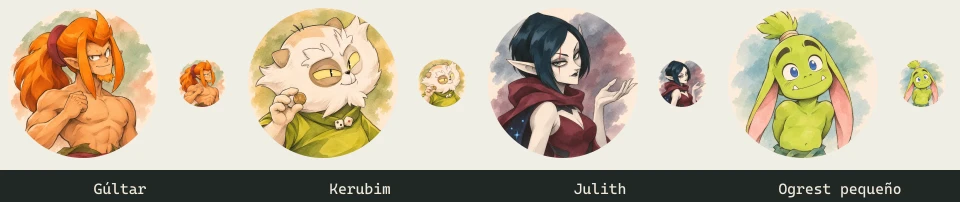
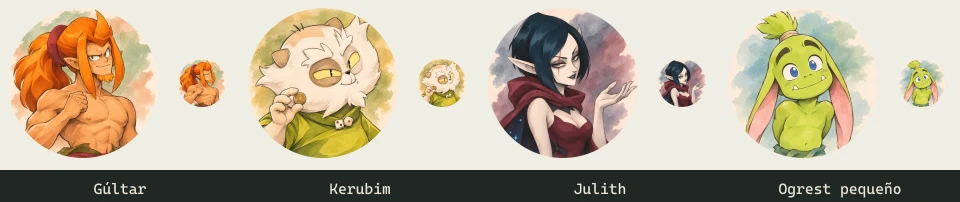
style(brand): refine Julith's exclusive portrait on request
Give adult Julith a more alluring expression, subtle parted-lip smile and
flattering opaque burgundy neckline while retaining her recognizable
face, scar, bob, star-lined cloak, raised-palm gesture, normal avatar
framing and established ink-and-watercolor treatment.

Select this single explicitly requested edit and refresh its WebP and
portrait/circle preview sheets. Preserve the first native PNG, archived
WebP, exact original prompt and full record in the generation history.
Record the edit prompt, input hashes and native/circular/hand review;
the previously ambiguous fourth long finger remains a review observation.

Keep the other seven exclusive images/records, all 334 normal artworks
and the original collection manifests unchanged. This visual refinement
belongs to the ongoing 0.4.27 collection and does not change unlocks or
profile behavior.

Validation: native/public/reference hashes, 512px opaque export, enlarged
artwork and hand inspection, 150/48px circular crops, exact preservation
of the previous artwork, production build and page-weight budgets.

Changed region(s): [[0.5, 0.1188, 0.75, 0.7723]]

diff --git a/docs/brand/emblematic-rewards/README.md b/docs/brand/emblematic-rewards/README.md
@@ -68,7 +68,9 @@ estáticos, con posibles máscaras de iluminación, no capturas exactas del jueg
 - PNG originales sin modificar: `temp/emblematic-rewards/masters/`.
 - Manifiesto de esta colección: `manifest.json`, con prompts exactos,
   hashes de PNG/WebP/referencias, identidad, procedencia y observaciones.
-- Se usa **image_gen integrado**; cada pieza conserva su **primera generación**.
+- Se usa **image_gen integrado**; todas las primeras generaciones se conservan.
+  Julith tiene una revisión más sensual y elegante, solicitada expresamente
+  por el usuario; el original y ambos prompts quedan en su historial.
 
 Inspeccionar cada retrato ampliado, en círculo a 150/48 px y con detalle de
 las manos cuando haga falta; cada banner ampliado y en recortes de
@@ -81,7 +83,7 @@ La inspección técnica no equivale a aprobación visual del usuario.
 
 - **Gúltar:** el pulgar no se separa por completo en la vista del puño cerrado.
 - **Kerubim:** la pata que sostiene la moneda tiene cuatro siluetas de dedos claramente visibles; revisar su anatomía y tratamiento de pelaje.
-- **Julith:** en la mano levantada se distinguen tres dedos largos y el pulgar; el cuarto dedo largo no se puede seguir con claridad entre los contornos superpuestos.
+- **Julith:** seleccionada la revisión más sensual y elegante solicitada por el usuario, con mirada/sonrisa y escote refinados. Se conserva la observación de la mano levantada: tres dedos largos y pulgar son inequívocos; el cuarto dedo largo sigue ambiguo entre los contornos. El original queda archivado.
 - **Ogrest:** forma pequeña verificada; no hay manos expuestas en esta pose.
 
 Se conservan todas las primeras generaciones para que el usuario indique
